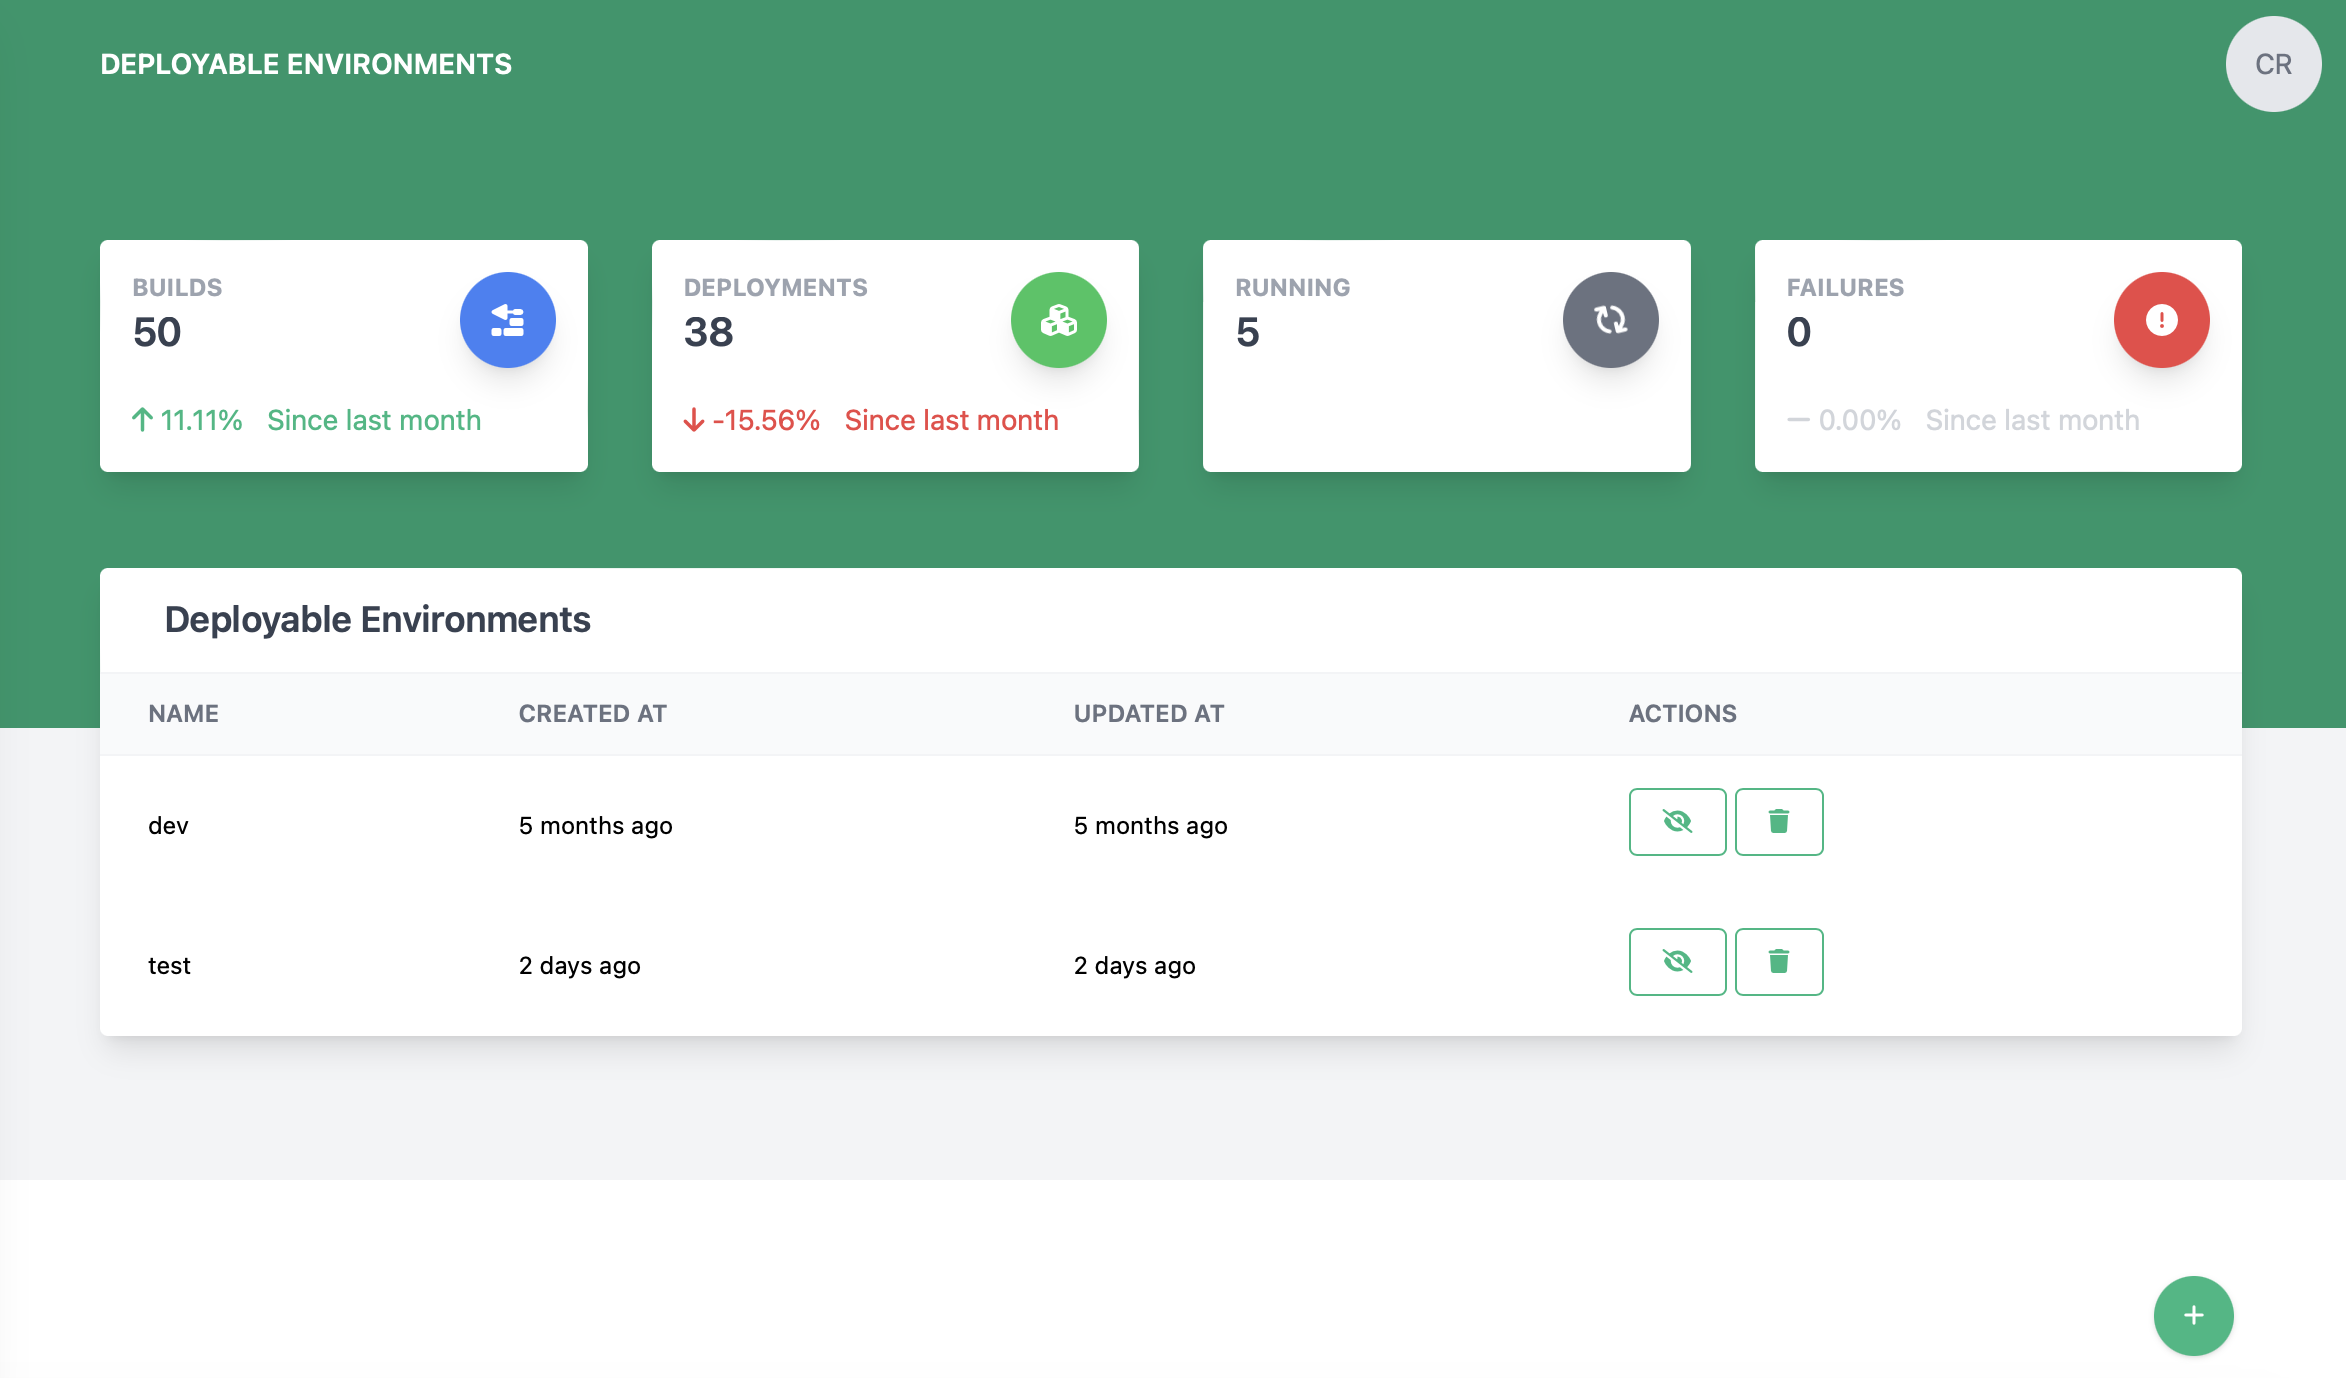
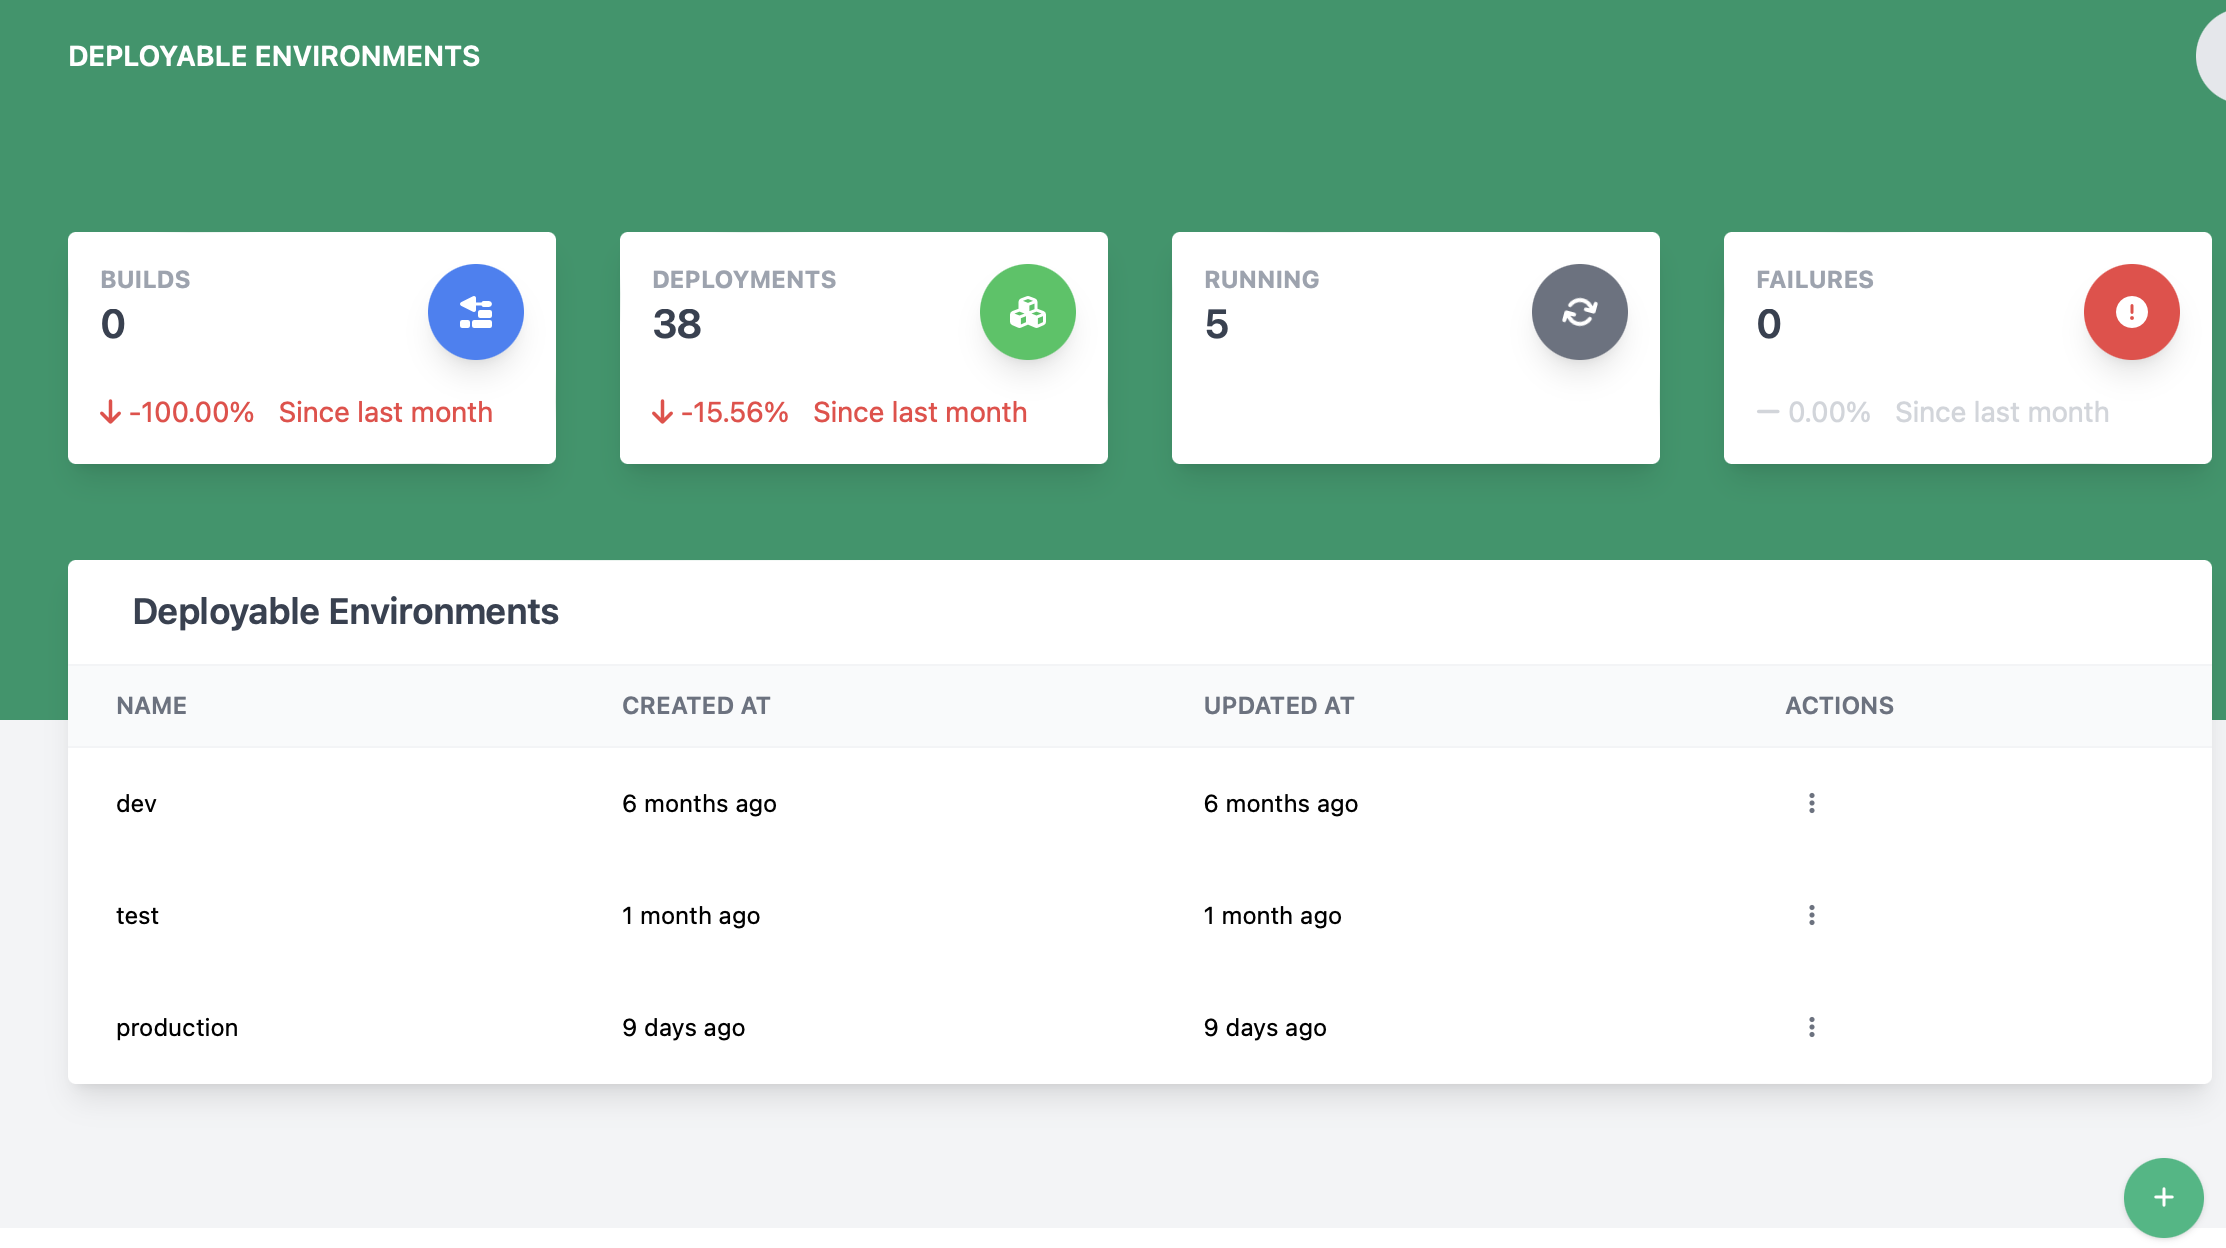
Update docs to support all new UI experience (#354)
Closes #352

diff --git a/ui/src/components/SideBar/SideBar.vue b/ui/src/components/SideBar/SideBar.vue
@@ -178,23 +178,6 @@
               </a>
             </router-link>
           </li>
-          <li class="items-center">
-            <router-link to="/errors" v-slot="{ href, navigate, isActive }">
-              <a
-                  :href="href"
-                  @click="navigate"
-                  class="text-xs uppercase py-3 font-bold block"
-                  :class="[
-                      isActive
-                        ? 'text-emerald-500 hover:text-emerald-600'
-                        : 'text-blueGray-700 hover:text-blueGray-500'
-                  ]"
-              >
-                <i class="fas fa-shield-virus mr-2 text-sm" :class="[isActive ? 'opacity-75' : 'text-blueGray-300']"></i>
-                Errors
-              </a>
-            </router-link>
-          </li>
         </ul>
 
         <!-- Divider -->
@@ -316,6 +299,23 @@
               >
                 <i class="fas fa-truck-fast text-sm" :class="[isActive ? 'opacity-75' : 'text-blueGray-300']"></i>
                 Systems
+              </a>
+            </router-link>
+          </li>
+          <li class="items-center">
+            <router-link to="/errors" v-slot="{ href, navigate, isActive }">
+              <a
+                  :href="href"
+                  @click="navigate"
+                  class="text-xs uppercase py-3 font-bold block"
+                  :class="[
+                      isActive
+                        ? 'text-emerald-500 hover:text-emerald-600'
+                        : 'text-blueGray-700 hover:text-blueGray-500'
+                  ]"
+              >
+                <i class="fas fa-shield-virus mr-2 text-sm" :class="[isActive ? 'opacity-75' : 'text-blueGray-300']"></i>
+                Errors
               </a>
             </router-link>
           </li>

diff --git a/ui/src/views/ChampagneAdmin/UsersView.vue b/ui/src/views/ChampagneAdmin/UsersView.vue
@@ -56,8 +56,8 @@
               Username is required!
             </div>
             <div class="mb-3 pt-0">
-              <label for="adminCheckbox" class="text-sm font-medium text-gray-900 dark:text-gray-300">Admin?</label>
-              <input type="checkbox" v-model="userToCreate.admin" id="adminCheckbox" class="w-4 h-4 text-blue-600 bg-gray-100 border-gray-300 rounded focus:ring-blue-500 dark:focus:ring-blue-600 dark:ring-offset-gray-800 focus:ring-2 dark:bg-gray-700 dark:border-gray-600 ml-2"/>
+              <label for="adminCheckbox" class="text-sm font-medium text-gray-900">Admin?</label>
+              <input type="checkbox" v-model="userToCreate.admin" id="adminCheckbox" class="w-4 h-4 text-blue-600 bg-gray-100 border-gray-300 rounded focus:ring-blue-500 focus:ring-2 ml-2"/>
             </div>
           </div>
           <div class="flex items-center justify-end p-6 border-t border-solid border-gray-200 rounded-b">

diff --git a/docs/docs/user_guide/environments.md b/docs/docs/user_guide/environments.md
@@ -9,7 +9,7 @@ The environments page lets a user manage a logical list of deployable environmen
 1. Click the <img alt="add" src="../../img/add.png" width="40"/> button at the bottom of the screen
 2. The create new environment dialog will appear
 
-    <img alt="New deployment environment dialog" src="../../img/create_environment.png" width="300"/>
+    <img alt="New deployment environment dialog" src="../../img/create-environment.png" width="300"/>
    
 3. Enter the new environment name (**This is required**)
 4. Click Save to create the environment
@@ -23,11 +23,15 @@ is historical data related to the environment that should be kept.
 
 ### Disable an environment
 
-To disable an environment, find the row with the environment to be disabled, click the <img alt="disable" src="../../img/disable.png" width="40"/> button.
+To disable an environment, find the row with the environment to be disabled, click the 3 vertical dots and select Deactivate.
+
+<img alt="Deactivate Environment Action" src="../../img/environment-actions-active.png" width="300"/>
 
 ### Enable an environment
 
-To enable an environment, find the row with the environment to be enabled, click the <img alt="enable" src="../../img/enable.png" width="40"/> button.
+To enable an environment, find the row with the environment to be enabled, click the 3 vertical dots and select Activate.
+
+<img alt="Activate Environment Action" src="../../img/environment-actions-inactive.png" width="300"/>
 
 ## Deleting an environment
 
@@ -36,4 +40,6 @@ deployable environment
 
 **Heads Up!** Deleting can only be performed by administrators of the deployable system!
 
-To delete an environment, find the row with the environment to be deleted and click the <img alt="delete" src="../../img/delete.png" width="40"/> button.
+To delete an environment, find the row with the environment to be deleted and click the 3 vertical dots and select Remove.
+
+<img alt="Remove Environment Action" src="../../img/environment-actions-active.png" width="300"/>

diff --git a/docs/docs/user_guide/tasks.md b/docs/docs/user_guide/tasks.md
@@ -1,0 +1,42 @@
+# Viewing and Managing Manual Tasks
+
+The manual tasks page lets a user manage a list of releases and manual tasks that are needed in those releases for a system.
+
+![Screenshot](../img/tasks.png)
+
+## Creating a release
+
+1. Click the <img alt="action" src="../../img/add.png" width="40"/> button at the bottom of the screen
+2. The create new release dialog will appear
+
+    <img alt="New release dialog" src="../../img/create-release.png" width="300"/>
+
+3. Enter the new release name (**This is required**)
+4. Click Save to create the release
+
+## Deleting a release
+
+To delete a release, find the row with the release to be deleted and click the 3 vertical dots to open the action menu and select Delete Release. Note: This will delete all tasks in that release too.
+
+   <img alt="Delete Release Action" src="../../img/release-actions.png" width="40"/>
+
+## Create a task
+
+1. Find the row with the release to add a task for and click the 3 vertical dots to open the action menu and select Create Task.
+2. The create new task dialog will appear
+
+    <img alt="New task dialog" src="../../img/create-task.png" width="300"/>
+
+3. Enter the task summary (**This is required**)
+4. Enter the task description
+5. Enter the task component (**This is required**)
+6. Select the task execution stage, either pre or post deployment (**This is required**)
+7. Click Save to create the task
+
+## Delete a task
+
+To delete a task, find the row with the task to be deleted and click the 3 vertical dots to open the action menu and select Delete Task.
+
+## Change task or release status for an environment
+
+To change the status of a given task or release in a specific environment, click the icon showing the status. This will open the status change dialog. Choose the new status (Pending, Complete, Not Required) and click Save.

diff --git a/docs/docs/user_guide/components.md b/docs/docs/user_guide/components.md
@@ -1,0 +1,34 @@
+# Viewing and Managing Components
+
+The component page lets a user manage a list of deployable components for the system.
+
+![Screenshot](../img/component.png)
+
+## Creating a component
+
+**Heads Up!** Creating can only be performed by administrators of the deployable system!
+
+1. Click the <img alt="action" src="../../img/add.png" width="40"/> button at the bottom of the screen
+2. The create new component dialog will appear
+
+    <img alt="New component dialog" src="../../img/create-component.png" width="300"/>
+
+3. Enter the new component name (**This is required**)
+4. Select the tag for the component (This is how components are linked to hosts). **This is required**
+5. Click Save to create the component
+
+## Deleting a component
+
+**Heads Up!** Deleting can only be performed by administrators of the deployable system!
+
+To delete a component, find the row with the component to be deleted and click the 3 vertical dots to open the action menu and select Remove Component
+
+   <img alt="Delete Component Action" src="../../img/component-actions.png" width="40"/>
+
+## Editing a component
+
+**Heads Up!** Editing can only be performed by administrators of the deployable system!
+
+To edit a component, find the row with the component to be edited and click the 3 vertical dots to open the action menu and select Edit Component
+
+   <img alt="Edit Component Action" src="../../img/component-actions.png" width="40"/>

diff --git a/docs/docs/user_guide/hosts.md b/docs/docs/user_guide/hosts.md
@@ -1,0 +1,36 @@
+# Viewing and Managing Hosts
+
+The host page lets a user manage a list of deployable hosts for the system.
+
+![Screenshot](../img/host.png)
+
+## Creating a host
+
+**Heads Up!** Creating can only be performed by administrators of the deployable system!
+
+1. Click the <img alt="action" src="../../img/add.png" width="40"/> button at the bottom of the screen
+2. The create new host dialog will appear
+
+    <img alt="New host dialog" src="../../img/create-host.png" width="300"/>
+
+4. Enter the new host name (**This is required**)
+5. Select any tags for the host (This is how components are linked to hosts).
+6. Click Save to create the host
+
+## Deleting a host
+
+Hosts can be deleted. This will _only_ delete the host entry and will _not_ delete any of the components linked to that host.
+
+**Heads Up!** Deleting can only be performed by administrators of the deployable system!
+
+To delete a host, find the row with the host to be deleted and click the 3 vertical dots to open the action menu and select Remove Host
+
+   <img alt="Delete Host Action" src="../../img/host-actions.png" width="40"/>
+
+## Editing a host
+
+**Heads Up!** Editing can only be performed by administrators of the deployable system!
+
+To edit a host, find the row with the host to be edited and click the 3 vertical dots to open the action menu and select Edit Host
+
+   <img alt="Edit Host Action" src="../../img/host-actions.png" width="40"/>

diff --git a/docs/docs/champagne_admin/users.md b/docs/docs/champagne_admin/users.md
@@ -1,0 +1,36 @@
+# Viewing and Managing Champagne Users
+
+The users page lets a champagne user manage a list of users.
+
+![Screenshot](../img/users.png)
+
+## Creating a user
+
+1. Click the <img alt="action" src="../../img/add.png" width="40"/> button at the bottom of the screen
+2. The create new user dialog will appear
+
+    <img alt="New tag dialog" src="../../img/create-user.png" width="300"/>
+
+3. Enter the user's first name (**This is required**)
+4. Enter the user's last name (**This is required**)
+5. Enter the user's username (**This is required**)
+6. If desired, check the Admin box to make the user a Champagne admin
+7. Click Save to create the user
+
+## Remove User
+
+To remove a user from champagne, find the user to be removed and click the 3 vertical dots to open the action menu and click Remove User.
+
+<img alt="Delete User Action" src="../../img/user-actions.png" width="40"/>
+
+## Edit User
+
+To edit a user, find the user to be edited and click the 3 vertical dots to open the action menu and click Edit User.
+
+<img alt="Edit User Action" src="../../img/user-actions.png" width="40"/>
+
+## Add User to a System
+
+To add a user to a system, find the user to be added and click the 3 vertical dots to open the action menu and click Add to System. In the dialog, select the system to add the user to and click Save.
+
+<img alt="Add User To System Action" src="../../img/user-actions.png" width="40"/>

diff --git a/README.md b/README.md
@@ -1,12 +1,16 @@
 # Champagne
+[![Build](https://github.com/kiwiproject/champagne-service/workflows/build/badge.svg)](https://github.com/kiwiproject/champagne-service/actions?query=workflow%3Abuild)
+[![License: MIT](https://img.shields.io/badge/License-MIT-blue.svg)](https://opensource.org/licenses/MIT)
+
+#### UI
+[![Quality Gate Status](https://sonarcloud.io/api/project_badges/measure?project=kiwiproject_champagne-ui&metric=alert_status)](https://sonarcloud.io/summary/new_code?id=kiwiproject_champagne-ui)
+
+#### Service
+[![Quality Gate Status](https://sonarcloud.io/api/project_badges/measure?project=kiwiproject_champagne-service&metric=alert_status)](https://sonarcloud.io/summary/new_code?id=kiwiproject_champagne-service)
+[![Coverage](https://sonarcloud.io/api/project_badges/measure?project=kiwiproject_champagne-service&metric=coverage)](https://sonarcloud.io/summary/new_code?id=kiwiproject_champagne-service)
+
 A service that allows you to toast successful deployments. This service will assist a project in managing builds,
 deployments, promotions to different environments and tracking manual deployment steps.
 
-## How to build server component
-TODO
-
-## How to build ui component
-TODO
-
-## How to container to distribute
-TODO
+## Documentation
+See the docs here: https://kiwiproject.github.io/champagne-service/

diff --git a/docs/docs/user_guide/system-users.md b/docs/docs/user_guide/system-users.md
@@ -1,0 +1,19 @@
+# Viewing and Managing System Users
+
+The system users page lets a user manage a list of users in a system.
+
+![Screenshot](../img/system-users.png)
+
+**Heads Up!** The following actions can only be performed by administrators of the deployable system!
+
+## Remove User from System
+
+To remove a user from a system, find the user to be removed and click the 3 vertical dots to open the action menu and click Remove User.
+
+## Make User an Admin in the System
+
+To make a user an admin in a system, find the row with the user to change and click the 3 vertical dots to open the action menu and click Become Admin.
+
+## Remove Admin flag from User in the System
+
+To remove the admin flag from a user in a system, find the row with the user to change and click the 3 vertical dots to open the action menu and click Remove Admin.

diff --git a/docs/docs/system_admin/tags.md b/docs/docs/system_admin/tags.md
@@ -1,0 +1,23 @@
+# Viewing and Managing Tags
+
+The tags page lets a system admin user manage a list of tags for the system that will be used to link hosts and components.
+
+![Screenshot](../img/tags.png)
+
+## Creating a tag
+
+1. Click the <img alt="action" src="../../img/add.png" width="40"/> button at the bottom of the screen
+2. The create new tag dialog will appear
+
+    <img alt="New tag dialog" src="../../img/create-tag.png" width="300"/>
+
+3. Enter the new tag name (**This is required**)
+4. Click Save to create the tag
+
+## Deleting a tag
+
+To delete a tag, find the row with the tag to be deleted and click the 3 vertical dots to open the action menu and select Remove.
+
+## Editing a tag
+
+To edit a tag, find the row with the tag to be edited and click the 3 vertical dots to open the action menu and select Edit.

diff --git a/docs/docs/champagne_admin/systems.md b/docs/docs/champagne_admin/systems.md
@@ -1,0 +1,19 @@
+# Viewing and Managing Deployable Systems
+
+The systems page lets a champagne admin user manage a list of deployable systems in champagne.
+
+![Screenshot](../img/systems.png)
+
+## Creating a system
+
+1. Click the <img alt="action" src="../../img/add.png" width="40"/> button at the bottom of the screen
+2. The create new system dialog will appear
+
+    <img alt="New system dialog" src="../../img/create-system.png" width="300"/>
+
+3. Enter the new system name (**This is required**)
+4. Click Save to create the component
+
+## Deleting a system
+
+To delete a system, find the row with the system to be deleted and click the 3 vertical dots to open the action menu and select Remove. Note this will delete EVERYTHING related to that system.

diff --git a/docs/docs/system_admin/manage_system.md b/docs/docs/system_admin/manage_system.md
@@ -1,0 +1,15 @@
+# Managing System Settings
+
+The manage system page allows for changes to be made to various settings of the system.
+
+![Screenshot](../img/manage-system.png)
+
+**Heads Up!** This page can only be accessed by administrators of the deployable system!
+
+## Initial Environment
+
+This section allows for the setting of which of the deployment environments should be marked as the first environment that components will be deployed to. Any environments after this environment will have builds promoted to that environment.
+
+## Environment Deployment Order
+
+This section allows the ordering of deployment environments in the system so that promotions will transition through the environments correctly.
